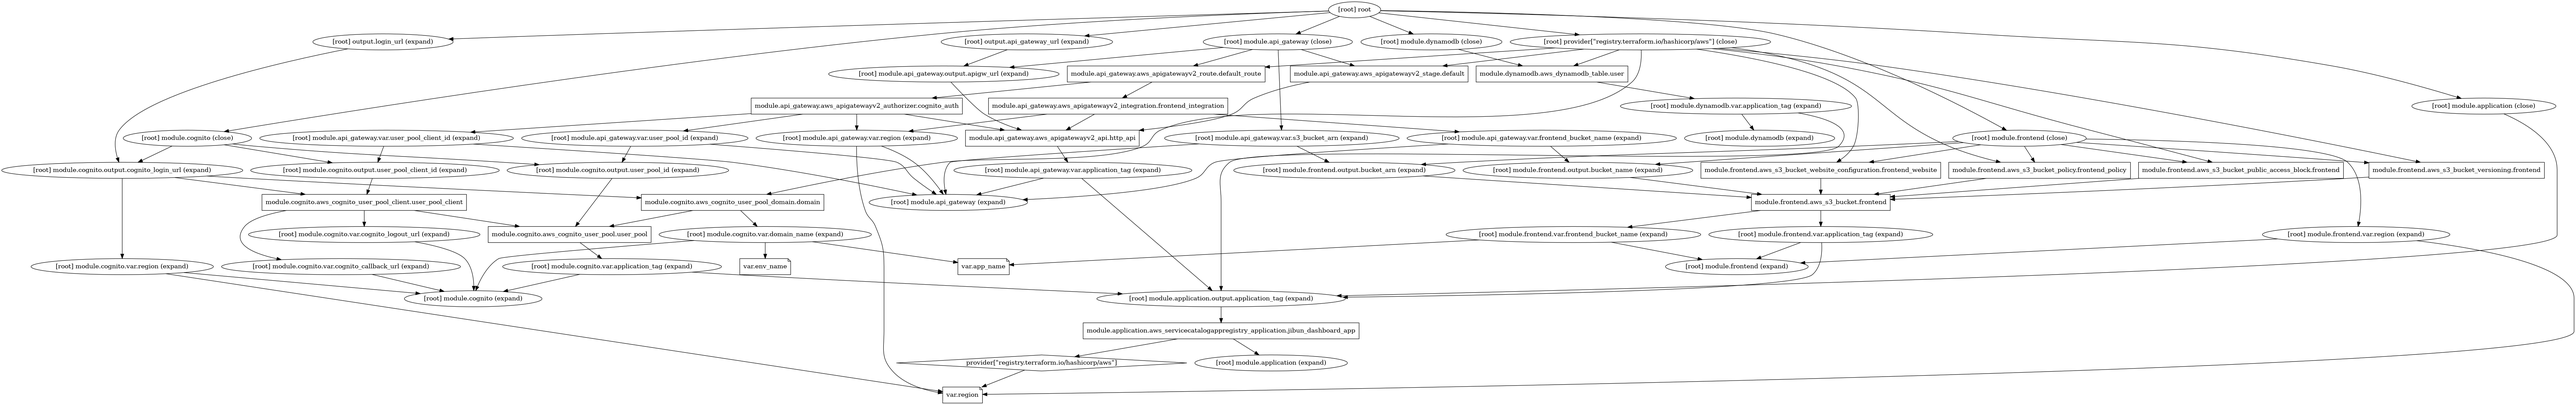
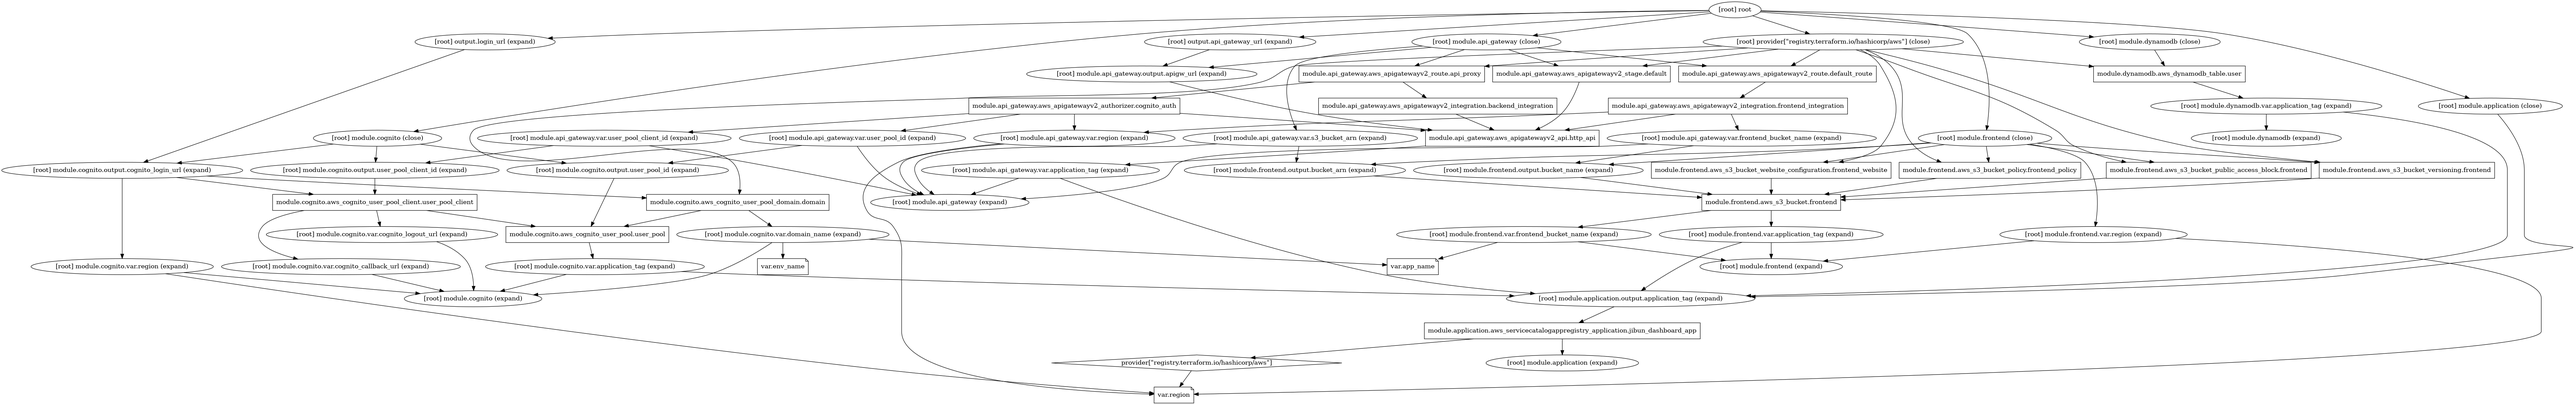
Automatically Generated

diff --git a/doc/04.infra/modules/api_gateway/terraform-doc.md b/doc/04.infra/modules/api_gateway/terraform-doc.md
@@ -19,7 +19,9 @@ No modules.
 |------|------|
 | [aws_apigatewayv2_api.http_api](https://registry.terraform.io/providers/hashicorp/aws/latest/docs/resources/apigatewayv2_api) | resource |
 | [aws_apigatewayv2_authorizer.cognito_auth](https://registry.terraform.io/providers/hashicorp/aws/latest/docs/resources/apigatewayv2_authorizer) | resource |
+| [aws_apigatewayv2_integration.backend_integration](https://registry.terraform.io/providers/hashicorp/aws/latest/docs/resources/apigatewayv2_integration) | resource |
 | [aws_apigatewayv2_integration.frontend_integration](https://registry.terraform.io/providers/hashicorp/aws/latest/docs/resources/apigatewayv2_integration) | resource |
+| [aws_apigatewayv2_route.api_proxy](https://registry.terraform.io/providers/hashicorp/aws/latest/docs/resources/apigatewayv2_route) | resource |
 | [aws_apigatewayv2_route.default_route](https://registry.terraform.io/providers/hashicorp/aws/latest/docs/resources/apigatewayv2_route) | resource |
 | [aws_apigatewayv2_stage.default](https://registry.terraform.io/providers/hashicorp/aws/latest/docs/resources/apigatewayv2_stage) | resource |
 
